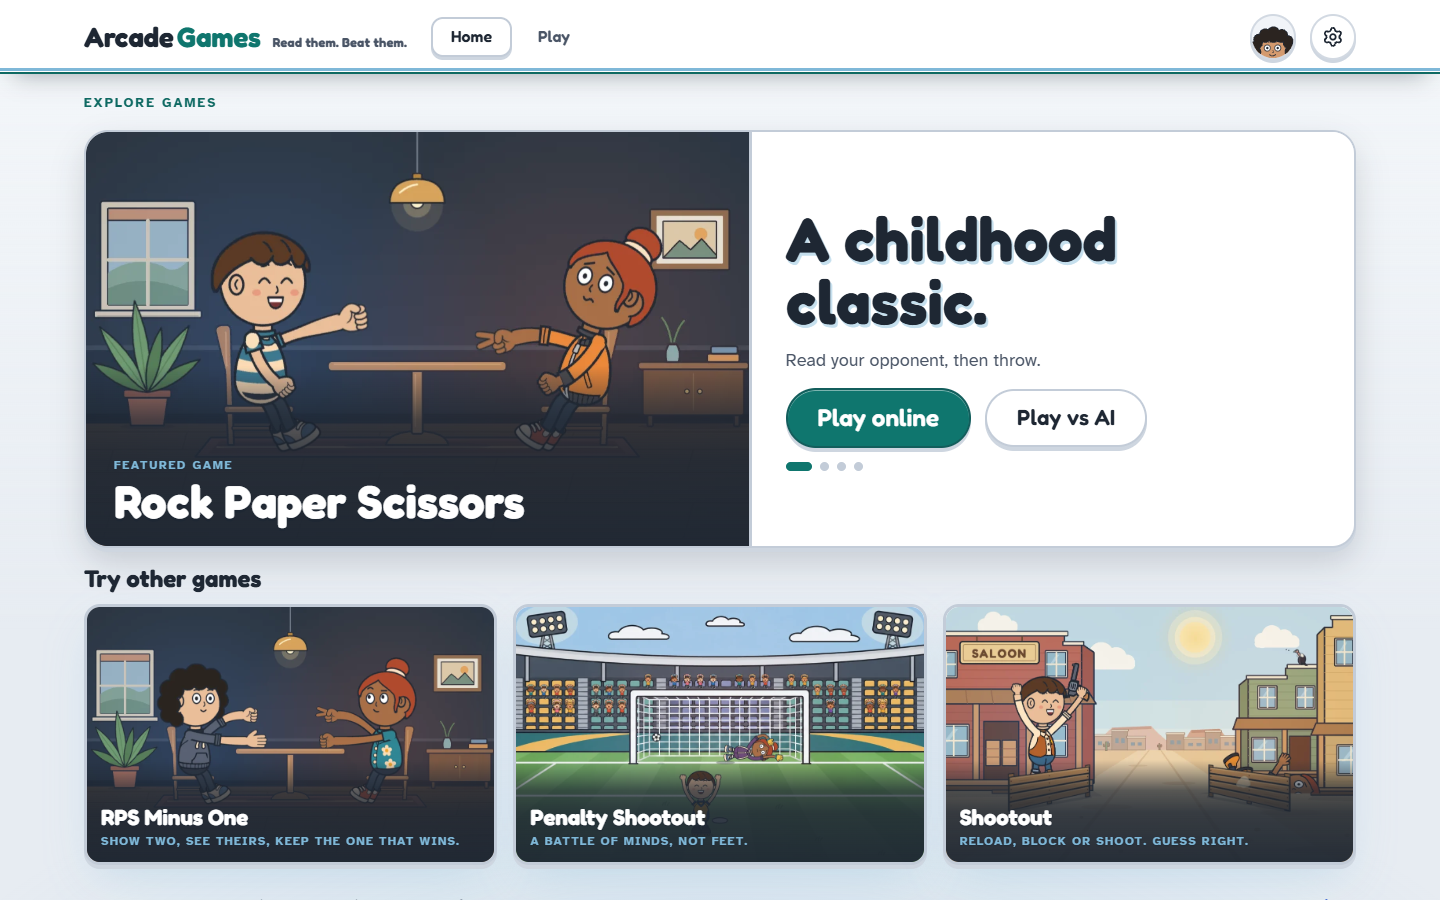
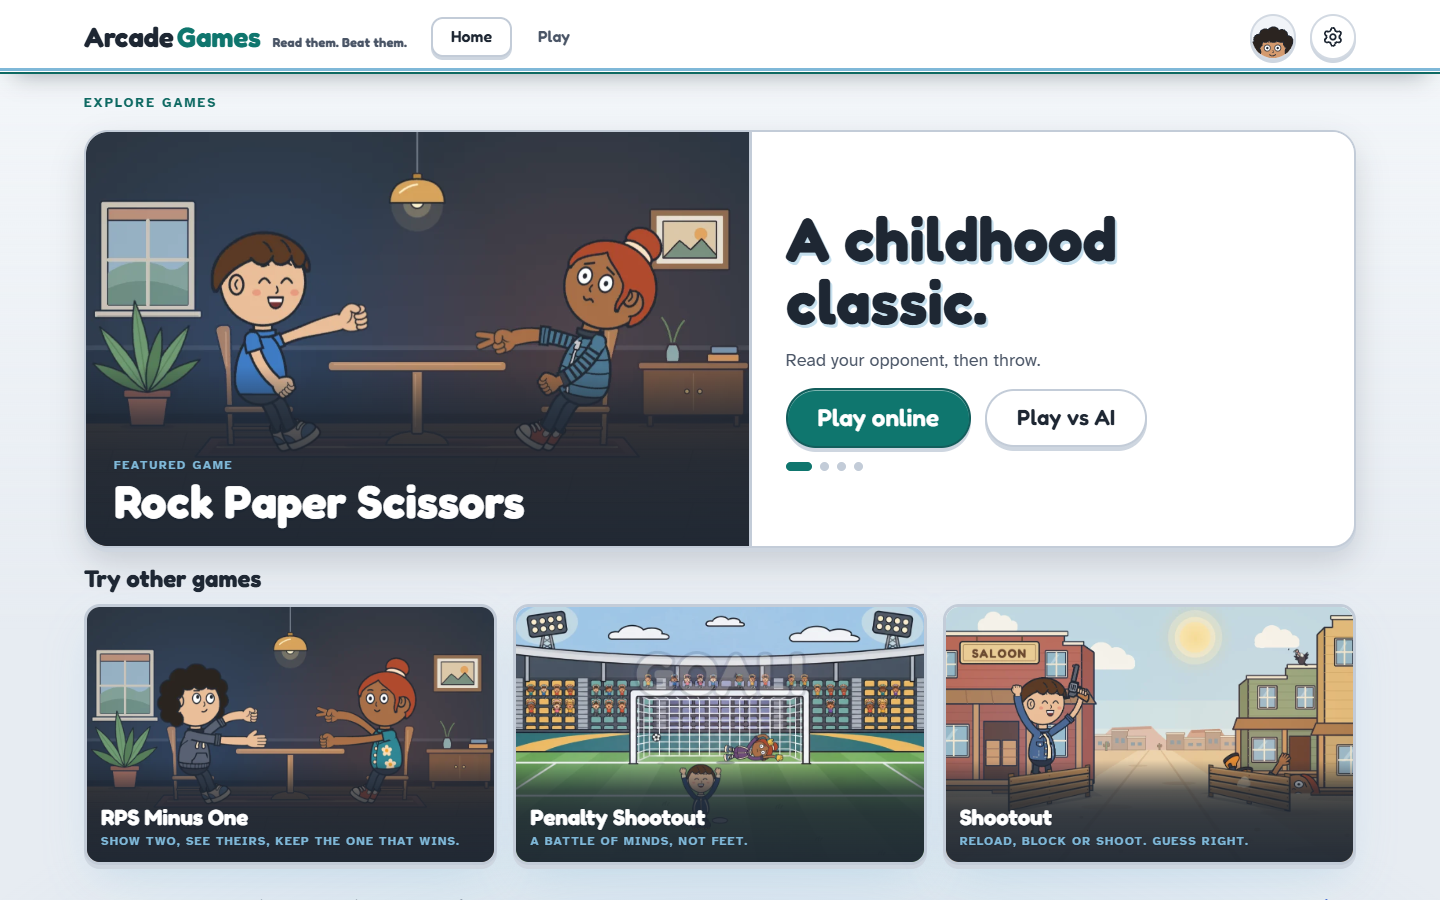
Shootout: the far hand holds the guns from behind
The revolver and the shotgun are held by the far hand, so the gun is now drawn
over that hand (props overHand: the rig puts the prop after the hand): the wrist
and the back of the hand hide behind the grip, and only the fingertips show,
wrapped over the grip's front edge (the revolver) or the stock's wrist (the
shotgun) in the holder's skin. Covers, screenshots and the GIF re-rendered.

diff --git a/public/js/figures/props.js b/public/js/figures/props.js
@@ -5,6 +5,7 @@
   const K = window.DuelKit;
   const { el, g } = K;
   const T = (n) => `var(--${n})`;
+  const f1 = (n) => Math.round(n * 10) / 10;
   const ink = (w = 4) => ({ stroke: T('outline'), 'stroke-width': w, 'stroke-linejoin': 'round', 'stroke-linecap': 'round' });
   const line = (d, w = 3.5) => el('path', { d, fill: 'none', ...ink(w) });
 
@@ -24,8 +25,17 @@
     const cylFace = g({ transform: 'translate(10 -13)' }, cylSpin);
     cylFace.style.display = 'none';
     const S = 1.55;   // drawn at hand scale, shown a bit bigger (about a head wide, like props-ref)
-    const root = g({ class: 'prop-revolver', transform: `scale(${S})` }, grip, guard, barrel, sight, frame, hammer, cylSide, cylFace);
-    return { root, cylSide, cylFace, cylSpin, muzzle: [60 * S, -15.5 * S], length: 60 * S };
+    // The gun is seen from its near side and held by the far hand (overHand: the rig draws it over the hand, so the
+    // wrist and the back of the hand hide behind the grip): only the fingertips show, wrapped over the grip's front
+    // edge, in the holder's skin (skin: the rig fills them).
+    const front = (y) => 8 - ((y + 6) * 6) / 28;   // the grip's front edge at height y
+    const tips = [0, 1, 2, 3].map((i) => {
+      const y = -1 + i * 5.4, x = front(y);
+      return el('rect', { x: f1(x - 5.5), y: f1(y - 2.6), width: 10, height: 5.2, rx: 2.6, ...ink(2.2) });
+    });
+    const fingers = g({ class: 'prop-fingers' }, ...tips);
+    const root = g({ class: 'prop-revolver', transform: `scale(${S})` }, grip, guard, barrel, sight, frame, hammer, cylSide, cylFace, fingers);
+    return { root, cylSide, cylFace, cylSpin, muzzle: [60 * S, -15.5 * S], length: 60 * S, overHand: true, skin: tips };
   }
 
   // Shotgun: the rear hand holds the grip at the origin, the front hand the pump (pump). Barrel along +x.
@@ -37,8 +47,14 @@
     const pump = g({}, el('rect', { x: 58, y: -4, width: 32, height: 12, rx: 5, fill: T('wood'), ...ink(3.5) }), line('M66 -2L66 6M73 -2L73 6M80 -2L80 6', 2.5));
     const guard = el('path', { d: 'M10 2Q10 12 20 10Q22 6 20 2', fill: 'none', ...ink(3.5) });
     const S = 1.4;
-    const root = g({ class: 'prop-shotgun', transform: `scale(${S})` }, stock, guard, body, barrel, pump);
-    return { root, muzzle: [124 * S, -8 * S], pump: [74 * S, 2 * S], length: 124 * S };
+    // held like the revolver (overHand): the far hand behind the stock's wrist, its fingertips wrapped up over the
+    // wrist's lower edge ((4,4) to (-20,12)) on the near side, in the holder's skin
+    const tips = [0.12, 0.38, 0.64].map((t) => {
+      const x = 4 - 24 * t, y = 4 + 8 * t;
+      return el('rect', { x: -2.4, y: -6.5, width: 4.8, height: 9, rx: 2.4, transform: `translate(${f1(x)} ${f1(y)}) rotate(-18.4)`, ...ink(2.2) });
+    });
+    const root = g({ class: 'prop-shotgun', transform: `scale(${S})` }, stock, guard, body, barrel, pump, g({ class: 'prop-fingers' }, ...tips));
+    return { root, muzzle: [124 * S, -8 * S], pump: [74 * S, 2 * S], length: 124 * S, overHand: true, skin: tips };
   }
 
   // Football: center at the origin, radius 20.

diff --git a/public/js/mascots/rig.js b/public/js/mascots/rig.js
@@ -715,6 +715,12 @@
       a.prop.dataset.prop = name || '';
       a.propNode = name ? propNode(name) : null;
       if (a.propNode) a.propInner.append(a.propNode.root);
+      // a prop held in front of its hand (overHand: a gun seen from its near side, the hand behind its grip with the
+      // fingertips wrapped over it: the prop's skin parts take the character's skin), else the hand over the prop
+      // (only moved when it has to: the tests' light DOM has no insertBefore)
+      if (a.propNode?.overHand) a.root.append(a.prop);
+      else if (a.root.lastChild === a.prop) { if (a.root.insertBefore) a.root.insertBefore(a.prop, a.hand); else a.root.append(a.hand); }
+      a.propNode?.skin?.forEach((e) => { e.style.fill = this.c.skin; });
       this.apply(this.cur, performance.now());
       return this;
     }
